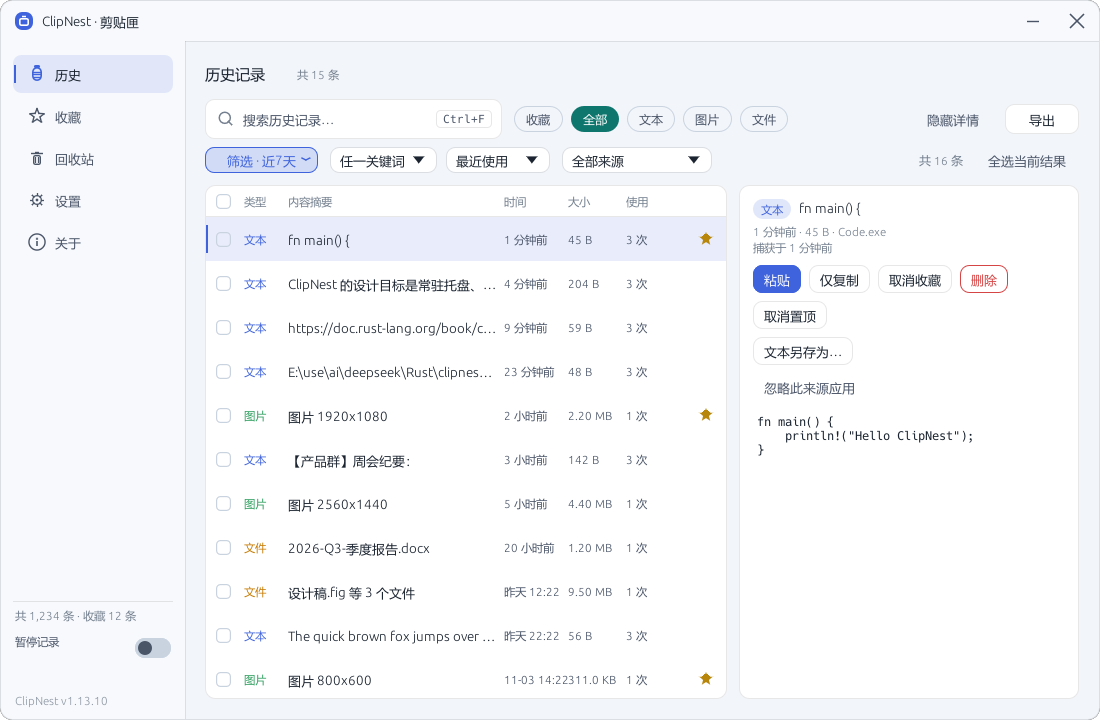
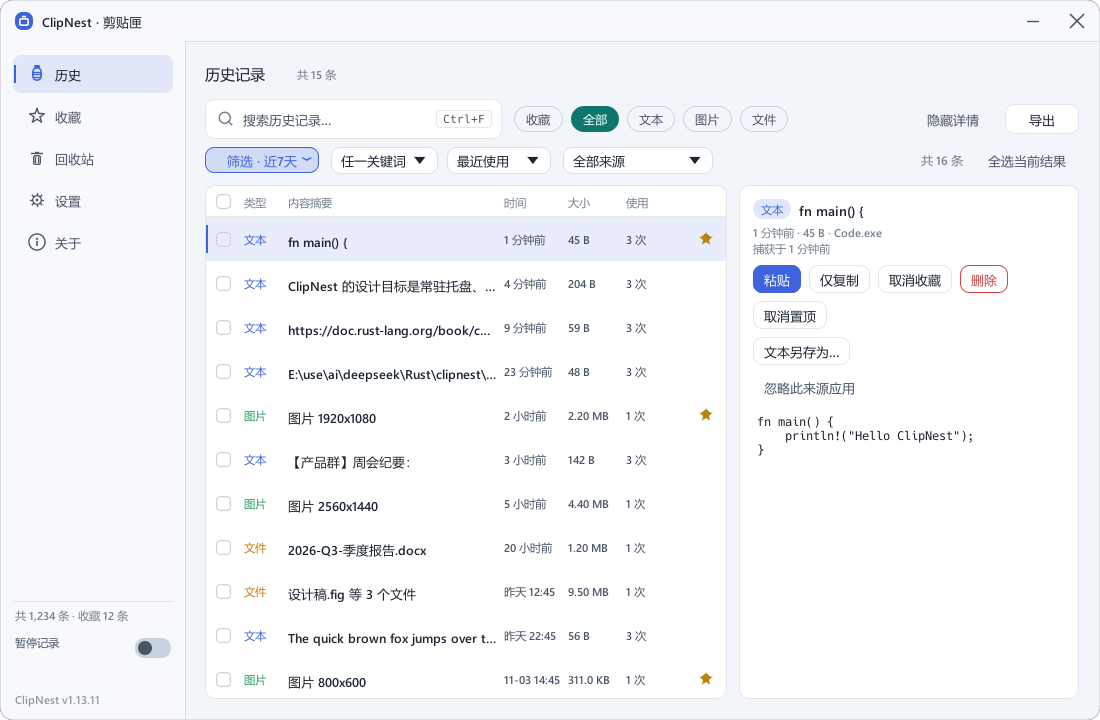
feat: v1.13.11 西文改用 Windows Segoe UI

diff --git a/src/ui/fonts.rs b/src/ui/fonts.rs
@@ -54,6 +54,10 @@ struct LoadedFont {
     index: u32,
 }
 
+/// Windows 资源管理器使用 Segoe UI；优先半粗体补偿 egui 灰度抗锯齿，
+/// 没有 Segoe UI Semibold 时退回常规体。
+const LATIN_CANDIDATES: &[&str] = &["seguisb.ttf", "segoeui.ttf"];
+
 /// 安装指定字体数据（mmap 或回退路径共用）。
 fn install_font(ctx: &egui::Context, name: String, mut data: egui::FontData, index: u32) {
     let mut fonts = egui::FontDefinitions::default();
@@ -61,14 +65,38 @@ fn install_font(ctx: &egui::Context, name: String, mut data: egui::FontData, ind
     // ttc 需要指定 face 索引
     data.index = index;
 
-    // 字体放 Proportional/Monospace 族末尾：拉丁字形仍由 egui 默认字体渲染。
+    // 西文优先使用 Windows 的 Segoe UI；中文回退到微软雅黑。两者都缺失时
+    // 继续用 egui 自带字体。
+    let latin_font = LATIN_CANDIDATES
+        .iter()
+        .find_map(|file| load_named(file, 0));
+    let latin_name = latin_font.as_ref().map(|font| font.name.clone());
+
     fonts.font_data.insert(name.clone(), Arc::new(data));
-    for family in [egui::FontFamily::Proportional, egui::FontFamily::Monospace] {
-        fonts.families.entry(family).or_default().push(name.clone());
+    if let Some(latin) = latin_font {
+        fonts.font_data.insert(latin.name.clone(), Arc::new(latin.data));
     }
 
+    if let Some(list) = fonts.families.get_mut(&egui::FontFamily::Proportional) {
+        if let Some(latin_name) = &latin_name {
+            list.insert(0, latin_name.clone());
+        }
+        list.insert(usize::from(latin_name.is_some()), name.clone());
+    }
+    fonts
+        .families
+        .entry(egui::FontFamily::Monospace)
+        .or_default()
+        .push(name.clone());
+
     ctx.set_fonts(fonts);
-    crate::logging::log(&format!("已加载中文字体：{name}（ttc 索引 {index}，内存映射零拷贝）"));
+    let latin_note = latin_name
+        .as_deref()
+        .map(|value| format!("，西文 {value}"))
+        .unwrap_or_default();
+    crate::logging::log(&format!(
+        "已加载中文字体：{name}（ttc 索引 {index}，内存映射零拷贝）{latin_note}"
+    ));
 }
 
 /// 便于单测的注入入口：用调用方提供的字体字节（owned 路径）。
@@ -200,6 +228,12 @@ mod tests {
         assert_eq!(names, vec!["msyh.ttc", "Deng.ttf", "simhei.ttf", "simsun.ttc"]);
         // ttc 候选索引均为 0（msyh 索引 0 为 Microsoft YaHei UI）
         assert!(CANDIDATES.iter().all(|(_, idx)| *idx == 0));
+    }
+
+    #[test]
+    fn latin_candidates_prefer_windows_ui_font() {
+        // Windows 资源管理器同款 Segoe UI；优先半粗体补偿灰度抗锯齿。
+        assert_eq!(LATIN_CANDIDATES, &["seguisb.ttf", "segoeui.ttf"]);
     }
 
     #[test]

diff --git a/docs/ACCEPTANCE-RESULT.md b/docs/ACCEPTANCE-RESULT.md
@@ -1218,3 +1218,21 @@
 - `cargo test --release`：**251 passed / 0 failed / 1 ignored**。
 - `--ui-preview picker` 确认底部提示条显示「空格 预览」且不挤压「共 N 条 / 预览开 / 齿轮」；字体日志为 `已加载中文字体：msyh.ttc`，西文恢复 Ubuntu-Light。
 - release 构建、9 尺寸图标 patch 与 `--selftest` 结果见发布记录。
+
+## 56. v1.13.11（2026-11-06，西文改用 Windows Segoe UI）
+
+### 用户反馈
+- 用户 m19812/m19813 发 Windows 资源管理器字体截图并问：「能否用window显示的这种字体。」
+
+### 修改
+- `src/ui/fonts.rs`：
+  - 新增 `LATIN_CANDIDATES = ["seguisb.ttf", "segoeui.ttf"]`：优先 Windows 资源管理器同款 **Segoe UI Semibold**，缺失时回退 Segoe UI 常规体。
+  - `install_font` 把西文字体插入 Proportional 族首位，`msyh.ttc`（微软雅黑 UI）紧随其后负责中文回退；Monospace 仍保留 egui 等宽字体并追加中文回退。
+  - 半粗体用于补偿 egui 灰度抗锯齿在小字号下比 Windows ClearType 偏细的问题；仍是 mmap 零拷贝，缺字体不 panic。
+- 日志新增西文字体提示：`已加载中文字体：msyh.ttc（ttc 索引 0，内存映射零拷贝），西文 seguisb.ttf`。
+
+### 校验
+- 新增 `latin_candidates_prefer_windows_ui_font`。
+- `cargo test --release`：**252 passed / 0 failed / 1 ignored**。
+- `--ui-preview manager` 截图 `docs/screenshots/manager-filter.png`（页脚 v1.13.11）：西文为 Segoe UI Semibold、中文微软雅黑 UI，URL/路径不再发虚。
[1 lines of base64/hex data omitted]

diff --git a/README.md b/README.md
@@ -253,6 +253,7 @@ clipnest.exe（单进程常驻）
 
 ## 更新记录
 
+- **v1.13.11**：西文改用 Windows 资源管理器同款 **Segoe UI**：优先 `Segoe UI Semibold`、缺失时回退常规体，中文继续使用微软雅黑 UI。半粗体用于补偿 egui 灰度抗锯齿在小字号下的发虚感；如果觉得偏重，可再切回常规 `segoeui.ttf`。
 - **v1.13.10**：候选窗新增 **空格预览开关**：选中图片或长文本后按 `空格` 打开预览，再按一次关闭；搜索框已有文字时空格仍留给分词输入。根据实机观感，西文字体从 Segoe UI 改回 egui 自带的 **Ubuntu-Light**，中文继续使用微软雅黑 UI，避免小字号下发虚。
 - **v1.13.9**：中文字体从等线（Deng.ttf）改为 **微软雅黑 UI**（msyh.ttc 索引 0），西文优先使用 Windows 原生 **Segoe UI**；解决界面字形偏细、发灰、不够清晰的问题。微软雅黑缺失时仍按等线 → 黑体 → 宋体回退，不会出现方块。
 - **v1.13.8**：管理台与候选窗的筛选行统一为同一套组件。时间筛选按钮共用 `time_filter_button`，折叠时都显示当前条件（如「筛选 · 近7天」）并使用强调色，不再在管理台单独显示蓝点；关键词模式/排序下拉共用 `filter_meta_row`，宽度与间距一致，管理台保留「全部来源」筛选。另修复最高磨砂不透明度下输入框焦点色 alpha 的 u8 溢出。
